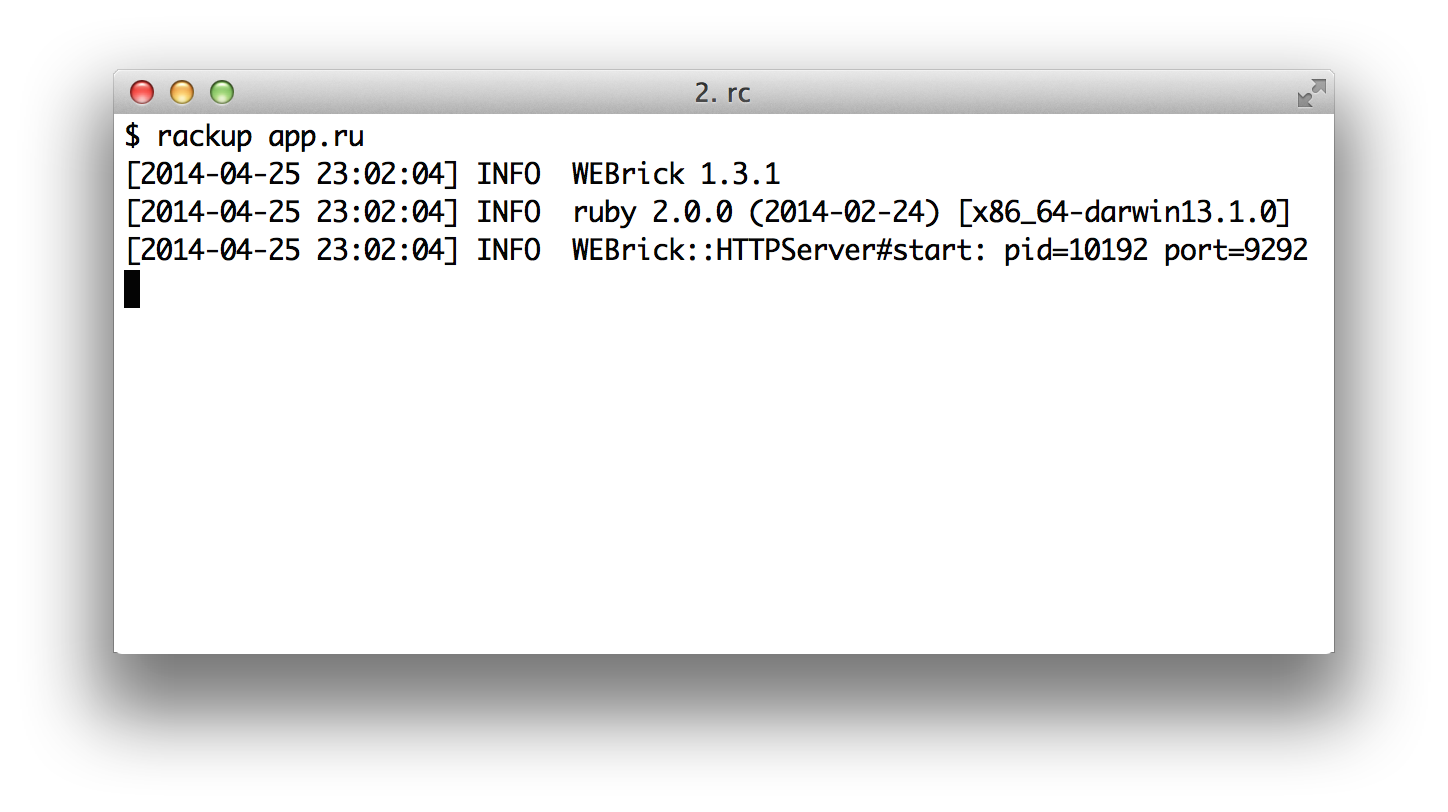
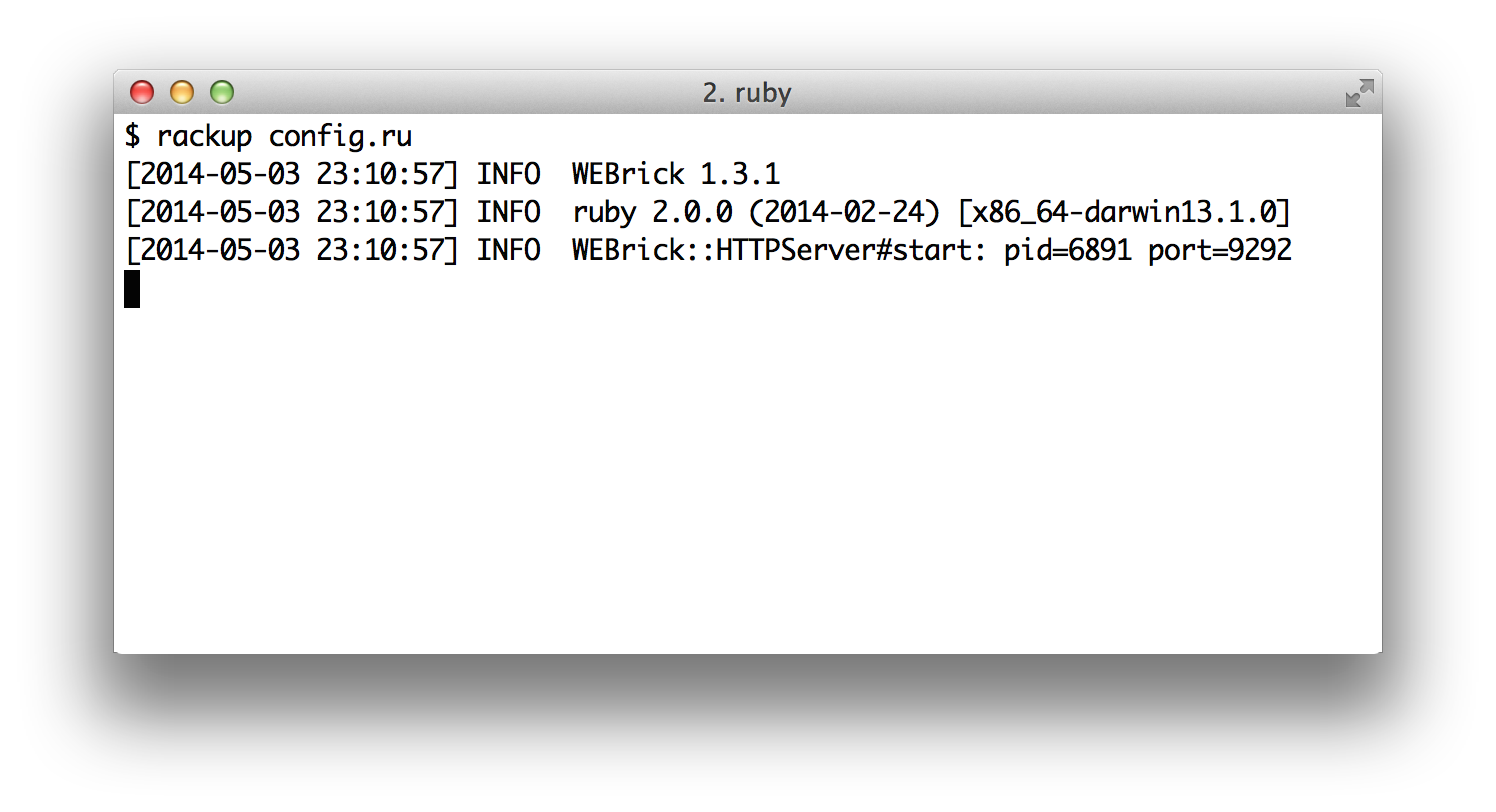
s/app.ru/config.ru

Changed region(s): [[0.0622, 0.0924, 0.9323, 0.8005], [0.4662, 0.0924, 0.5283, 0.1232]]

diff --git a/welcome_aboard/hello_cuba.md b/welcome_aboard/hello_cuba.md
@@ -8,8 +8,8 @@ $ gem install cuba
 ```
 
 Now that Cuba is installed, it's easy to create a Cuba application. Open
-your text editor of preference and create a file called `app.ru` with the
-following code:
+your text editor of preference and create a file called `config.ru` with
+the following code:
 
 ```ruby
 require "cuba"
@@ -24,7 +24,7 @@ run(Cuba)
 ```
 
 You already have a functional Cuba application! To see it in action, type
-`rackup app.ru` in the command line.
+`rackup config.ru` in the command line.
 
 ![rackup](https://raw.githubusercontent.com/frodsan/theguidetocuba/master/assets/rackup.png)
 
